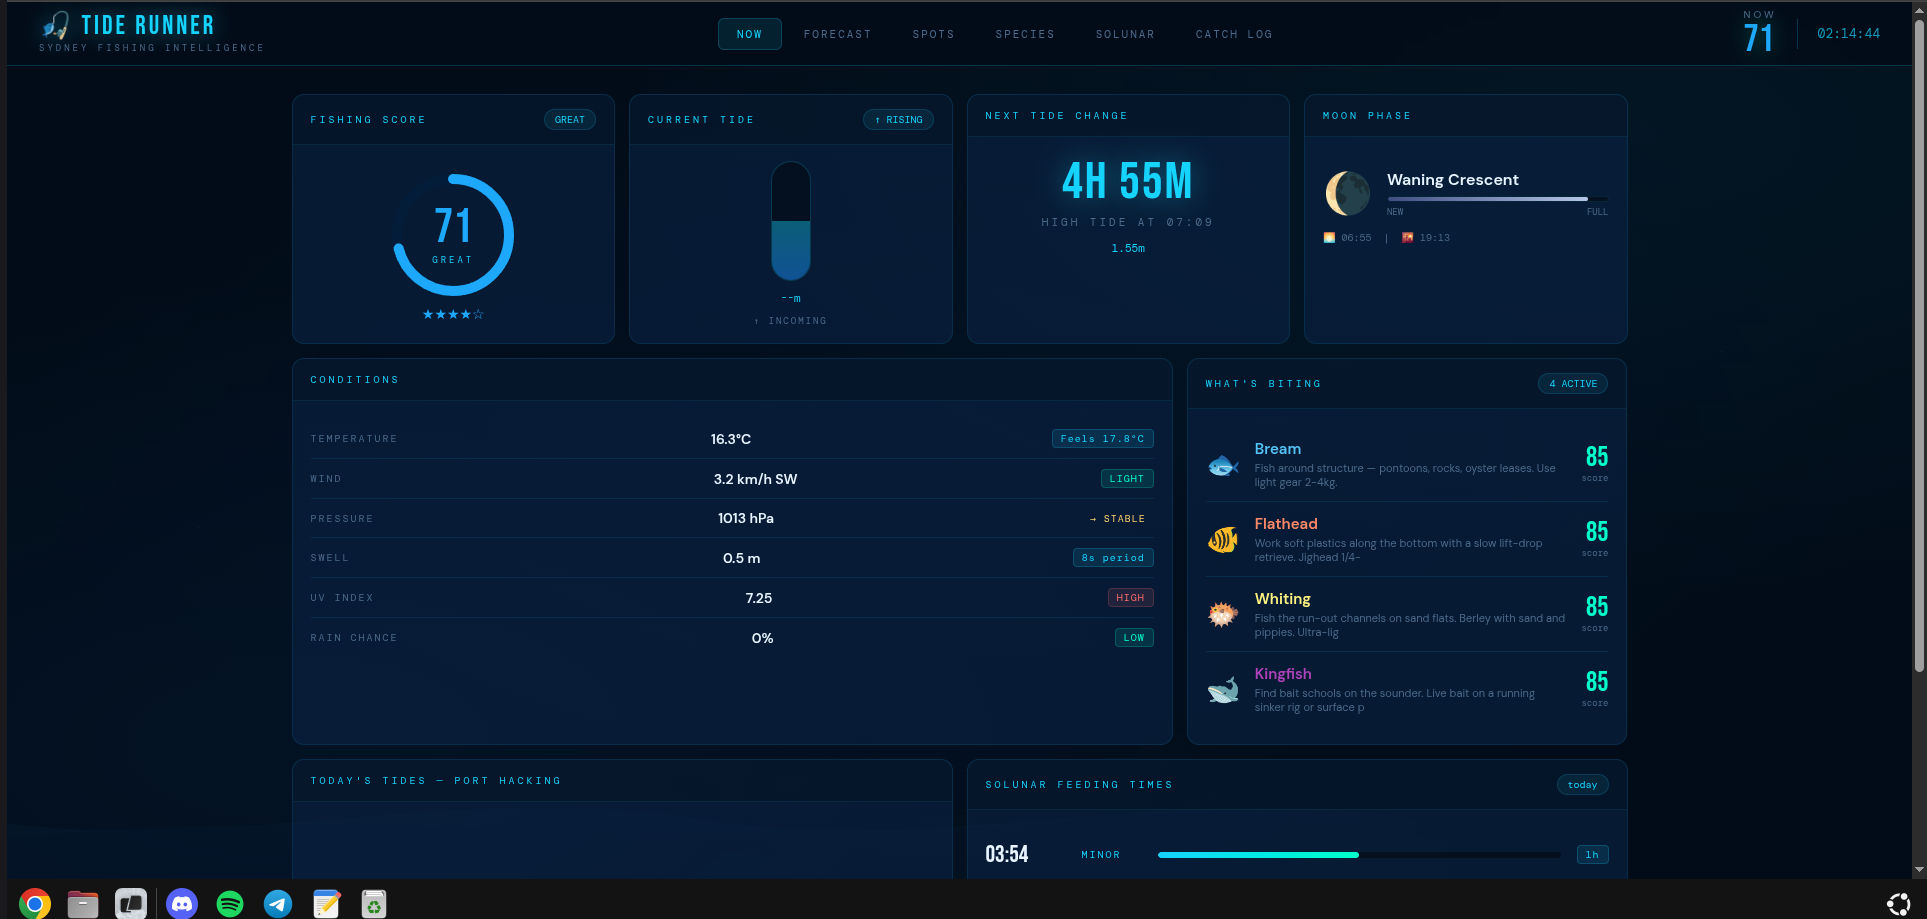
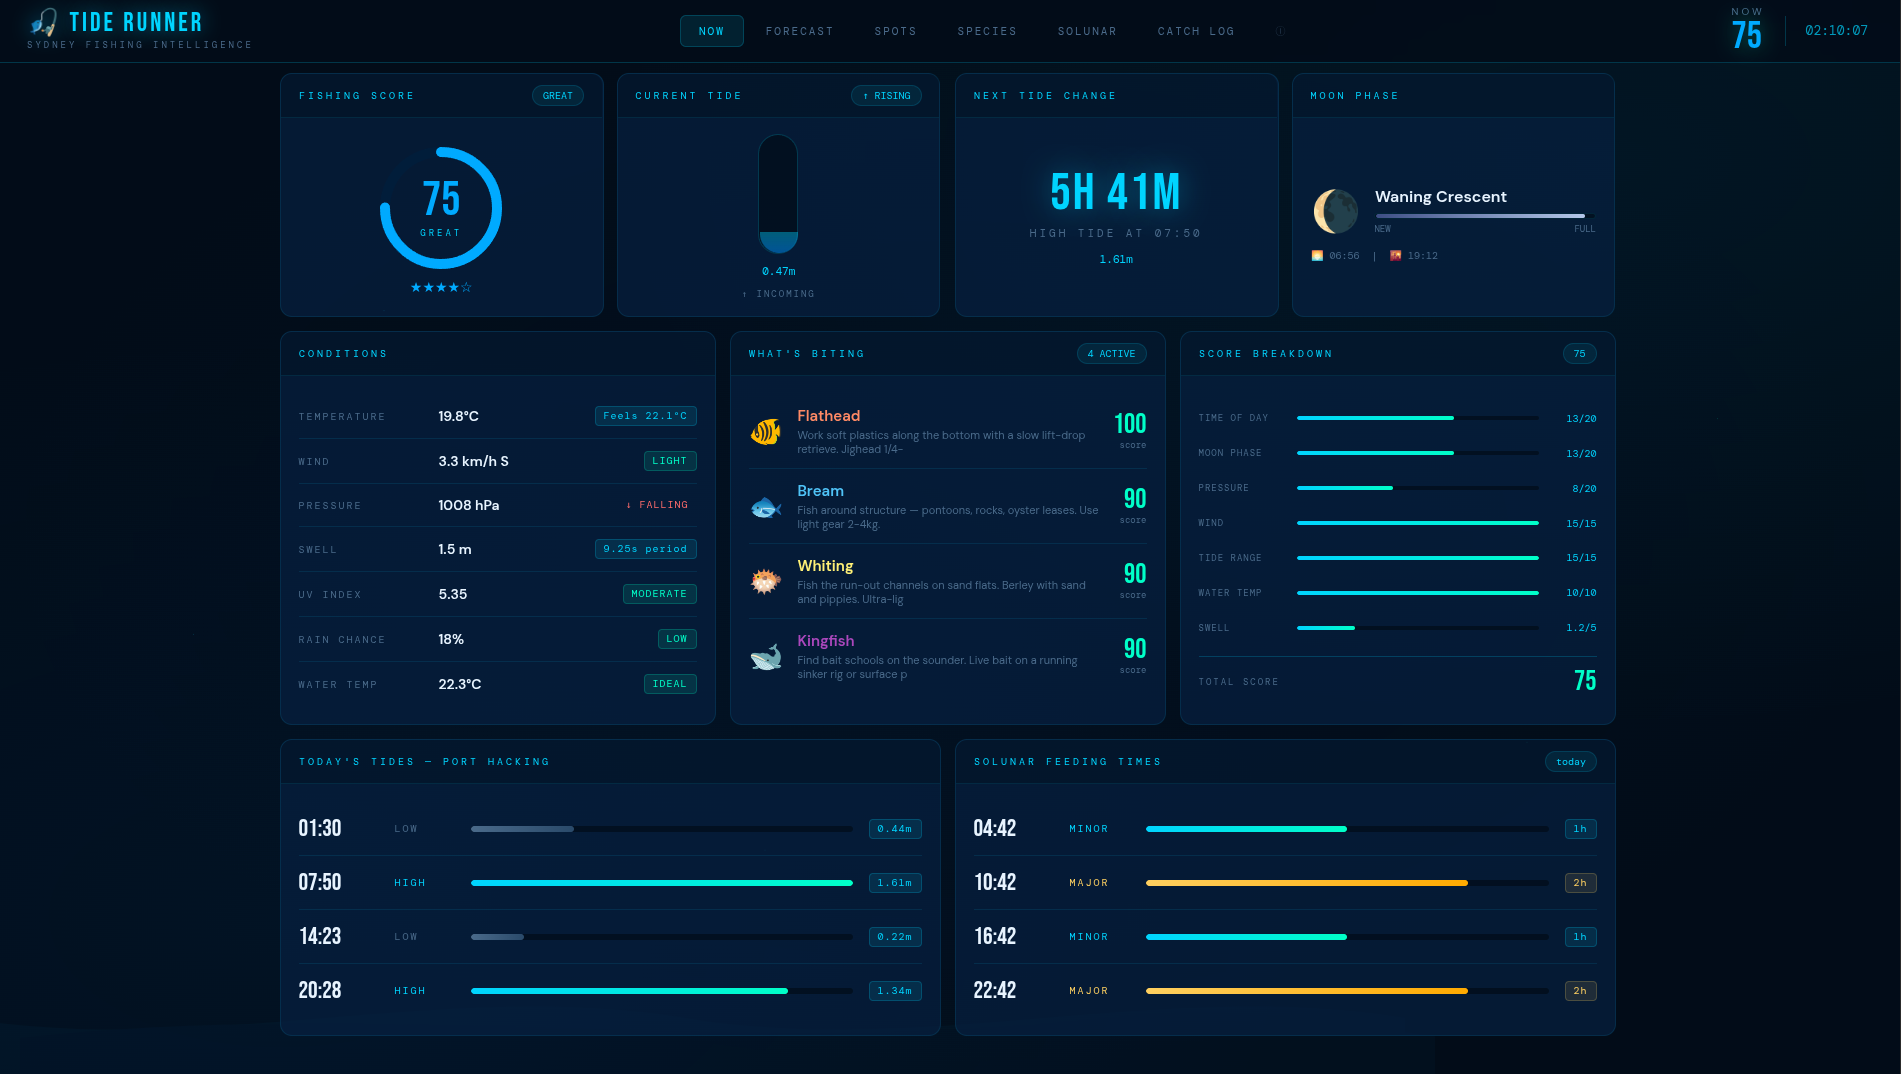
feat: major UI overhaul — NOW page dashboard
- 3-column middle row: Conditions + What's Biting + Score Breakdown
- Score Breakdown card showing all 7 algorithm factors with bars
- Tide interpolation — current height calculated between extremes
- Removed tide graph canvas, replaced with solunar-style tide rows
- Card height consistency across all rows
- Conditions grid layout — all values column-aligned
- Water temp row in conditions with IDEAL/WARM/COOL badge
- What's Biting cleaned up — removed reason tags
- Updated NOW screenshot

diff --git a/index.html b/index.html
@@ -188,7 +188,8 @@ nav {
 .card:hover { border-color: var(--border2); }
 
 .card-header {
-  padding:14px 18px;
+  padding:0 18px;
+  min-height:44px;
   border-bottom:1px solid var(--border);
   display:flex;
   align-items:center;
@@ -219,8 +220,8 @@ nav {
 /* ── GRIDS ── */
 .grid-4 { display:grid; grid-template-columns:repeat(4,1fr); gap:14px; margin-bottom:14px; }
 .grid-3 { display:grid; grid-template-columns:repeat(3,1fr); gap:14px; margin-bottom:14px; }
-.grid-2 { display:grid; grid-template-columns:1fr 1fr; gap:14px; margin-bottom:14px; }
-.grid-auto { display:grid; grid-template-columns:2fr 1fr; gap:14px; margin-bottom:14px; }
+.grid-2 { display:grid; grid-template-columns:1fr 1fr; gap:14px; margin-bottom:14px; align-items:stretch; }
+.grid-auto { display:grid; grid-template-columns:2fr 1fr; gap:14px; margin-bottom:14px; align-items:stretch; }
 .grid-3-1 { display:grid; grid-template-columns:3fr 1fr; gap:14px; margin-bottom:14px; }
 
 /* ── STAT BOXES ── */
@@ -352,10 +353,10 @@ nav {
 
 /* ── CONDITIONS ROW ── */
 .cond-item {
-  display:flex;
+  display:grid;
+  grid-template-columns:140px 1fr auto;
   align-items:center;
-  justify-content:space-between;
-  padding:10px 0;
+  padding:12px 0;
   border-bottom:1px solid var(--border);
 }
 .cond-item:last-child { border-bottom:none; }
@@ -373,6 +374,7 @@ nav {
   font-size:14px;
   font-weight:600;
   color:var(--bright);
+  text-align:left;
 }
 
 .cond-badge {
@@ -381,6 +383,8 @@ nav {
   padding:2px 8px;
   border-radius:4px;
   letter-spacing:1px;
+  line-height:1.4;
+  flex-shrink:0;
 }
 
 .badge-good  { background:rgba(0,255,200,0.1); color:var(--teal); border:1px solid rgba(0,255,200,0.2); }
@@ -1140,8 +1144,8 @@ canvas.tide-chart {
     </div>
   </div>
 
-  <!-- Row 2: Conditions + Biting Now -->
-  <div class="grid-auto" style="margin-bottom:14px;">
+  <!-- Row 2: Conditions + Biting Now + Score Breakdown -->
+  <div style="display:grid;grid-template-columns:1fr 1fr 1fr;gap:14px;margin-bottom:14px;">
 
     <div class="card">
       <div class="card-header"><div class="card-title">Conditions</div></div>
@@ -1157,21 +1161,27 @@ canvas.tide-chart {
       </div>
     </div>
 
+    <div class="card" style="display:flex;flex-direction:column;">
+      <div class="card-header"><div class="card-title">Score Breakdown</div><div class="card-badge" id="breakdown-score-badge">--</div></div>
+      <div class="card-body" id="breakdown-body" style="flex:1;display:flex;flex-direction:column;">
+        <div class="loading">Loading</div>
+      </div>
+    </div>
+
   </div>
 
   <!-- Row 3: Today's Tides + Solunar -->
   <div class="grid-2">
-    <div class="card">
+    <div class="card" style="display:flex;flex-direction:column;">
       <div class="card-header"><div class="card-title">Today's Tides — Port Hacking</div></div>
-      <div class="card-body">
-        <canvas class="tide-chart" id="today-chart" width="600" height="100"></canvas>
-        <div style="margin-top:12px;" id="tide-table-today"></div>
+      <div class="card-body" style="flex:1;display:flex;flex-direction:column;">
+        <div style="display:flex;flex-direction:column;justify-content:space-evenly;flex:1;" id="tide-table-today"></div>
       </div>
     </div>
 
-    <div class="card">
+    <div class="card" style="display:flex;flex-direction:column;">
       <div class="card-header"><div class="card-title">Solunar Feeding Times</div><div class="card-badge">today</div></div>
-      <div class="card-body" id="solunar-today">
+      <div class="card-body" style="flex:1;display:flex;flex-direction:column;" id="solunar-today">
         <div class="loading">Calculating</div>
       </div>
     </div>
@@ -1435,14 +1445,37 @@ function renderNow(d) {
   document.getElementById('sunrise-time').textContent = d.weather.sunrise||'--:--';
   document.getElementById('sunset-time').textContent  = d.weather.sunset||'--:--';
 
-  // Tide gauge
+  // Tide gauge — interpolate current height between nearest extremes
   if (d.tides && d.tides.length >= 2) {
-    const heights = d.tides.map(t=>t.height);
-    const maxH = Math.max(...heights);
-    const minH = Math.min(...heights);
-    // Estimate current height from nearest extremes
-    const pct = 50; // simplified
-    document.getElementById('tide-fill').style.height = pct+'%';
+    const allH = d.tides.map(t=>t.height);
+    const maxH = Math.max(...allH);
+    const minH = Math.min(...allH);
+
+    const now = new Date();
+    const nowMins = now.getHours()*60 + now.getMinutes();
+
+    // Convert tide times ("07:50") to minutes
+    const tidesMins = d.tides.map(t => {
+      const [h,m] = t.time.split(':').map(Number);
+      return { mins: h*60+m, height: t.height };
+    });
+
+    const prev = [...tidesMins].reverse().find(t => t.mins <= nowMins);
+    const next = tidesMins.find(t => t.mins > nowMins);
+
+    let curHeight;
+    if (prev && next) {
+      const progress = (nowMins - prev.mins) / (next.mins - prev.mins);
+      curHeight = prev.height + (next.height - prev.height) * (1 - Math.cos(progress * Math.PI)) / 2;
+    } else if (prev) {
+      curHeight = prev.height;
+    } else {
+      curHeight = next ? next.height : (maxH + minH) / 2;
+    }
+
+    const pct = ((curHeight - minH) / (maxH - minH)) * 100;
+    document.getElementById('tide-fill').style.height = Math.max(5, Math.min(95, pct))+'%';
+    document.getElementById('tide-height-label').textContent = curHeight.toFixed(2)+'m';
   }
 
   // Next tide
@@ -1506,12 +1539,11 @@ function renderNow(d) {
   if (d.biting && d.biting.length) {
     document.getElementById('biting-badge').textContent = d.biting.length + ' ACTIVE';
     document.getElementById('biting-body').innerHTML = d.biting.map(b=>`
-      <div class="biting-item" style="align-items:flex-start;">
-        <div class="biting-emoji" style="margin-top:4px;">${b.emoji}</div>
-        <div style="flex:1;">
+      <div class="biting-item">
+        <div class="biting-emoji">${b.emoji}</div>
+        <div>
           <div class="biting-name" style="color:${b.color}">${b.name}</div>
           <div class="biting-tip">${b.tip}</div>
-          ${b.reasons&&b.reasons.length?`<div style="display:flex;flex-wrap:wrap;gap:4px;margin-top:6px;">${b.reasons.map(r=>`<span style="font-family:'DM Mono',monospace;font-size:9px;padding:2px 7px;border-radius:4px;background:rgba(0,255,200,0.08);color:var(--teal);border:1px solid rgba(0,255,200,0.2);">${r}</span>`).join('')}</div>`:''}
         </div>
         <div class="biting-score">
           <div class="biting-score-num" style="color:${scoreColor(b.score)}">${b.score}</div>
@@ -1521,15 +1553,52 @@ function renderNow(d) {
     `).join('');
   }
 
+  // Score breakdown
+  if (d.score && d.score.breakdown) {
+    document.getElementById('breakdown-score-badge').textContent = d.score.score;
+    const factors = [
+      ['Time of Day', 'time',     20],
+      ['Moon Phase',  'moon',     20],
+      ['Pressure',    'pressure', 20],
+      ['Wind',        'wind',     15],
+      ['Tide Range',  'tide',     15],
+      ['Water Temp',  'temp',     10],
+      ['Swell',       'swell',     5],
+    ];
+    const bd = d.score.breakdown;
+    document.getElementById('breakdown-body').innerHTML =
+      `<div style="display:flex;flex-direction:column;flex:1;justify-content:space-evenly;">` +
+      factors.map(([label, key, max]) => {
+        const val = bd[key] || 0;
+        const pct = (val / max) * 100;
+        return `
+          <div style="display:grid;grid-template-columns:90px 1fr 50px;align-items:center;gap:8px;padding:4px 0;">
+            <div style="font-family:'DM Mono',monospace;font-size:9px;letter-spacing:1px;color:var(--dim);text-transform:uppercase;">${label}</div>
+            <div style="height:4px;background:rgba(0,0,0,0.4);border-radius:2px;overflow:hidden;">
+              <div style="height:100%;border-radius:2px;background:linear-gradient(90deg,var(--cyan),var(--teal));width:${pct}%;transition:width 1s ease;"></div>
+            </div>
+            <div style="font-family:'DM Mono',monospace;font-size:10px;color:var(--cyan);text-align:right;">${val}/${max}</div>
+          </div>`;
+      }).join('') +
+      `</div>
+      <div style="display:flex;justify-content:space-between;align-items:center;padding-top:8px;padding-bottom:8px;margin-top:4px;border-top:1px solid var(--border2);">
+        <div style="font-family:'DM Mono',monospace;font-size:9px;letter-spacing:2px;color:var(--dim);">TOTAL SCORE</div>
+        <div style="font-family:'Bebas Neue',sans-serif;font-size:28px;color:var(--teal);">${d.score.score}</div>
+      </div>`;
+  }
+
   // Tide table
   if (d.tides && d.tides.length) {
+    const maxTideH = Math.max(...d.tides.map(t=>t.height));
     document.getElementById('tide-table-today').innerHTML = d.tides.map(t=>`
-      <div style="display:flex;justify-content:space-between;padding:8px 0;border-bottom:1px solid var(--border);">
-        <span style="color:${t.type==='HIGH'?'var(--cyan)':'var(--dim)'};font-weight:600;font-size:13px;">
-          ${t.type==='HIGH'?'▲':'▼'} ${t.type}
-        </span>
-        <span style="font-family:'DM Mono',monospace;font-size:14px;color:var(--bright);">${t.time}</span>
-        <span style="font-family:'DM Mono',monospace;font-size:13px;color:var(--dim);">${t.height}m</span>
+      <div class="solunar-row">
+        <div class="solunar-time">${t.time}</div>
+        <div class="solunar-type" style="color:${t.type==='HIGH'?'var(--cyan)':'var(--dim)'}">${t.type}</div>
+        <div class="solunar-bar">
+          <div style="height:100%;border-radius:3px;width:${Math.round((t.height/maxTideH)*100)}%;
+            background:${t.type==='HIGH'?'linear-gradient(90deg,var(--cyan),var(--teal))':'linear-gradient(90deg,var(--dim),#2a4a6a)'};"></div>
+        </div>
+        <div class="cond-badge badge-info">${t.height}m</div>
       </div>
     `).join('');
   }
@@ -1539,7 +1608,8 @@ function renderNow(d) {
     const all = [...d.solunar.major.map(s=>({...s,type:'major'})),
                  ...d.solunar.minor.map(s=>({...s,type:'minor'}))];
     all.sort((a,b)=>a.time.localeCompare(b.time));
-    document.getElementById('solunar-today').innerHTML = all.map(s=>`
+    document.getElementById('solunar-today').innerHTML = `<div style="display:flex;flex-direction:column;justify-content:space-evenly;flex:1;">` +
+      all.map(s=>`
       <div class="solunar-row">
         <div class="solunar-time">${s.time}</div>
         <div class="solunar-type" style="color:${s.type==='major'?'var(--gold)':'var(--cyan)'}">${s.label}</div>
@@ -1548,13 +1618,8 @@ function renderNow(d) {
         </div>
         <div class="cond-badge ${s.type==='major'?'badge-warn':'badge-info'}">${s.duration}</div>
       </div>
-    `).join('');
+    `).join('') + `</div>`;;
   }
-
-  // Draw tide chart (delayed to ensure canvas is visible)
-  setTimeout(() => {
-    if (d.tides_heights) drawTideChart(d.tides_heights, 'today-chart', true);
-  }, 100);
 }
 
 // ── LOAD: FORECAST ────────────────────────────────────────
